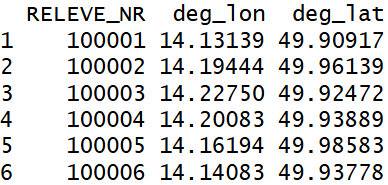
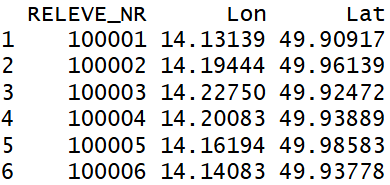
Data examples added

diff --git a/docs/DataProcessingTutorial/data_stratification.html b/docs/DataProcessingTutorial/data_stratification.html
@@ -309,7 +309,7 @@ pre > code.sourceCode > span > a:first-child::before { text-decoration: underlin
 <div class="sourceCode cell-code" id="cb2"><pre class="sourceCode r code-with-copy"><code class="sourceCode r"><span id="cb2-1"><a href="#cb2-1" aria-hidden="true" tabindex="-1"></a>coord <span class="ot">&lt;-</span> <span class="fu">read.csv</span>(<span class="st">"header_data.csv"</span>, <span class="at">header =</span> <span class="cn">TRUE</span>)</span>
 <span id="cb2-2"><a href="#cb2-2" aria-hidden="true" tabindex="-1"></a><span class="fu">head</span>(coord)</span></code><button title="Copy to Clipboard" class="code-copy-button"><i class="bi"></i></button></pre></div>
 </div>
-<p><img src="images/head_coord.png" class="img-fluid" width="251"></p>
+<p><img src="images/head_coord.png" class="img-fluid" width="254"></p>
 <p>As the first column with plot IDs must have a specific name, we need to rename it:</p>
 <div class="cell">
 <div class="sourceCode cell-code" id="cb3"><pre class="sourceCode r code-with-copy"><code class="sourceCode r"><span id="cb3-1"><a href="#cb3-1" aria-hidden="true" tabindex="-1"></a><span class="fu">colnames</span>(coord_sel)[<span class="dv">1</span>] <span class="ot">&lt;-</span> <span class="st">"PlotObservationID"</span></span></code><button title="Copy to Clipboard" class="code-copy-button"><i class="bi"></i></button></pre></div>
@@ -321,25 +321,33 @@ pre > code.sourceCode > span > a:first-child::before { text-decoration: underlin
 <p>Note that for projecting coordinates of plots from other countries, appropriate projected coordinate system must be used.</p>
 <p>And now, we can create a <code>data.table</code>:</p>
 <div class="cell">
-<div class="sourceCode cell-code" id="cb5"><pre class="sourceCode r code-with-copy"><code class="sourceCode r"><span id="cb5-1"><a href="#cb5-1" aria-hidden="true" tabindex="-1"></a>coord <span class="ot">&lt;-</span> <span class="fu">data.table</span>(coord)</span></code><button title="Copy to Clipboard" class="code-copy-button"><i class="bi"></i></button></pre></div>
+<div class="sourceCode cell-code" id="cb5"><pre class="sourceCode r code-with-copy"><code class="sourceCode r"><span id="cb5-1"><a href="#cb5-1" aria-hidden="true" tabindex="-1"></a>coord <span class="ot">&lt;-</span> <span class="fu">data.table</span>(coord)</span>
+<span id="cb5-2"><a href="#cb5-2" aria-hidden="true" tabindex="-1"></a><span class="fu">head</span>(coord)</span></code><button title="Copy to Clipboard" class="code-copy-button"><i class="bi"></i></button></pre></div>
 </div>
+<p><img src="images/head_coord_data.table.png" class="img-fluid" width="326"></p>
 <p><strong>2) Species data in long format with relevé ID, taxon names and their covers</strong></p>
 <p>The second object required by the <code>resample</code> function must be a <code>data.table</code> in long format containing relevé IDs, taxon names, and their percentage covers in each vegetation plot. All plot IDs must match those in the header data and vice versa. No <code>NA</code> values are allowed in any column.</p>
 <div class="cell">
 <div class="sourceCode cell-code" id="cb6"><pre class="sourceCode r code-with-copy"><code class="sourceCode r"><span id="cb6-1"><a href="#cb6-1" aria-hidden="true" tabindex="-1"></a>spe <span class="ot">&lt;-</span> <span class="fu">read.csv</span>(<span class="st">"species_data.csv"</span>, <span class="at">header =</span> <span class="cn">TRUE</span>)</span>
 <span id="cb6-2"><a href="#cb6-2" aria-hidden="true" tabindex="-1"></a><span class="fu">head</span>(spe)</span></code><button title="Copy to Clipboard" class="code-copy-button"><i class="bi"></i></button></pre></div>
 </div>
-<p><img src="images/head_spe.png" class="img-fluid" width="382"></p>
+<p><img src="images/head_spe.png" class="img-fluid" width="385"></p>
 <p>All columns must have specific names: <code>PlotObservationID</code>, <code>Taxon_name</code> and <code>cover</code>.</p>
 <div class="cell">
-<div class="sourceCode cell-code" id="cb7"><pre class="sourceCode r code-with-copy"><code class="sourceCode r"><span id="cb7-1"><a href="#cb7-1" aria-hidden="true" tabindex="-1"></a><span class="fu">colnames</span>(spe_sel) <span class="ot">&lt;-</span> <span class="fu">c</span>(<span class="st">"PlotObservationID"</span>, <span class="st">"Taxon_name"</span>, <span class="st">"cover"</span>)</span></code><button title="Copy to Clipboard" class="code-copy-button"><i class="bi"></i></button></pre></div>
+<div class="sourceCode cell-code" id="cb7"><pre class="sourceCode r code-with-copy"><code class="sourceCode r"><span id="cb7-1"><a href="#cb7-1" aria-hidden="true" tabindex="-1"></a><span class="fu">colnames</span>(spe) <span class="ot">&lt;-</span> <span class="fu">c</span>(<span class="st">"PlotObservationID"</span>, <span class="st">"Taxon_name"</span>, <span class="st">"cover"</span>)</span></code><button title="Copy to Clipboard" class="code-copy-button"><i class="bi"></i></button></pre></div>
 </div>
+<p>And the object must be a <code>data.table</code>.</p>
+<div class="cell">
+<div class="sourceCode cell-code" id="cb8"><pre class="sourceCode r code-with-copy"><code class="sourceCode r"><span id="cb8-1"><a href="#cb8-1" aria-hidden="true" tabindex="-1"></a>spe <span class="ot">&lt;-</span> <span class="fu">data.table</span>(spe)</span>
+<span id="cb8-2"><a href="#cb8-2" aria-hidden="true" tabindex="-1"></a><span class="fu">head</span>(spe)</span></code><button title="Copy to Clipboard" class="code-copy-button"><i class="bi"></i></button></pre></div>
+</div>
+<p><img src="images/head_spe_data.table.png" class="img-fluid" width="417"></p>
 </section>
 <section id="resampling" class="level1">
 <h1>Resampling</h1>
 <p>Now, we are ready to run the resampling. First, let’t load the function:</p>
 <div class="cell">
-<div class="sourceCode cell-code" id="cb8"><pre class="sourceCode r code-with-copy"><code class="sourceCode r"><span id="cb8-1"><a href="#cb8-1" aria-hidden="true" tabindex="-1"></a><span class="fu">source</span>(<span class="st">"https://raw.githubusercontent.com/jdivisek/FilteringReleves/refs/heads/main/ResampleFunction.R"</span>)</span></code><button title="Copy to Clipboard" class="code-copy-button"><i class="bi"></i></button></pre></div>
+<div class="sourceCode cell-code" id="cb9"><pre class="sourceCode r code-with-copy"><code class="sourceCode r"><span id="cb9-1"><a href="#cb9-1" aria-hidden="true" tabindex="-1"></a><span class="fu">source</span>(<span class="st">"https://raw.githubusercontent.com/jdivisek/FilteringReleves/refs/heads/main/ResampleFunction.R"</span>)</span></code><button title="Copy to Clipboard" class="code-copy-button"><i class="bi"></i></button></pre></div>
 </div>
 <p>We will use moderate criteria to remove only the closest and most compositionally similar plots in each stratum:</p>
 <ul>
